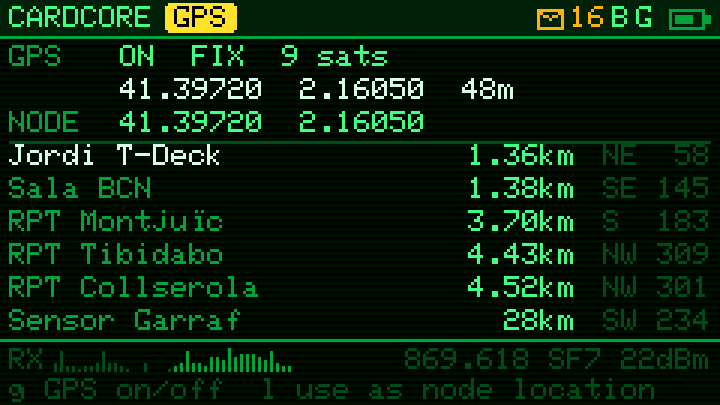
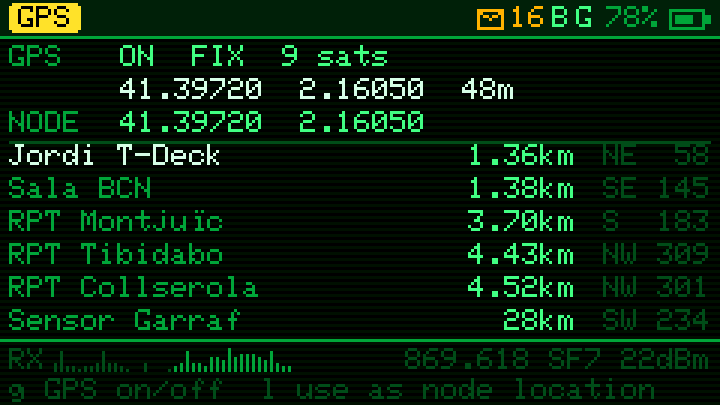
Top bar: battery percent in place of the CARDCORE label

Changed region(s): [[0.0, 0.0, 0.3361, 0.0889], [0.6417, 0.0, 0.9167, 0.0889]]

diff --git a/src/ui.cpp b/src/ui.cpp
@@ -219,15 +219,14 @@ static void contextText(char* s, int cap) {
 static void drawHeader(const Status& st) {
   cv.fillRect(0, 0, W, 12, C_BAR);
   cv.drawFastHLine(0, 12, W, C_MID);
-  txt("CARDCORE", 3, 2, C_HI);
-  int x = 3 + 8 * 6 + 4;
+  int x = 3;
   int pg = screen == SC_CHAT ? P_CHATS : screen == SC_CONTACT ? P_CONTACTS : screen == SC_CHANNELS ? P_SETTINGS
          : screen == SC_WIZARD ? P_HOME : page;
   const char* pn = screen == SC_CHAT ? tr(S_CHAT) : screen == SC_CONTACT ? tr(S_NODE) : screen == SC_WIZARD ? tr(S_SETUP)
                  : tr(PAGE_NAME[pg]);
   pill(pn, x, 1, PAGE_COLOR[pg]);
   x += pillW(pn) + 4;
-  // right side, right to left: battery, GPS, BLE, unread
+  // right side, right to left: battery, its %, GPS, BLE, unread
   int r = W - 3;
   uint16_t bc = st.battPct >= 0 && st.battPct < 20 ? C_WARN : C_MID;
   if (!st.charging || millis() / 800 % 2) {  // blinks while charging
@@ -236,7 +235,13 @@ static void drawHeader(const Status& st) {
     if (st.battPct > 0) cv.fillRect(r - 12, 5, st.battPct * 8 / 100 < 1 ? 1 : st.battPct * 8 / 100, 3, bc);
     if (st.charging) cv.drawLine(r - 9, 3, r - 6, 9, C_HOT);
   }
-  r -= 19;
+  r -= 17;
+  if (st.battPct >= 0) {
+    char b[6];
+    snprintf(b, sizeof b, "%d%%", st.battPct);
+    txt(b, r, 2, bc, 1);
+    r -= tlen(b) * 6 + 4;
+  }
   if (st.gpsOn) { txt("G", r, 2, st.gpsFix ? C_HI : C_DIM, 1); r -= 8; }
   if (st.bleOn) { txt("B", r, 2, st.bleConn ? C_HI : C_DIM, 1); r -= 8; }
   if (st.usbConn) { txt("U", r, 2, C_HI, 1); r -= 8; }
